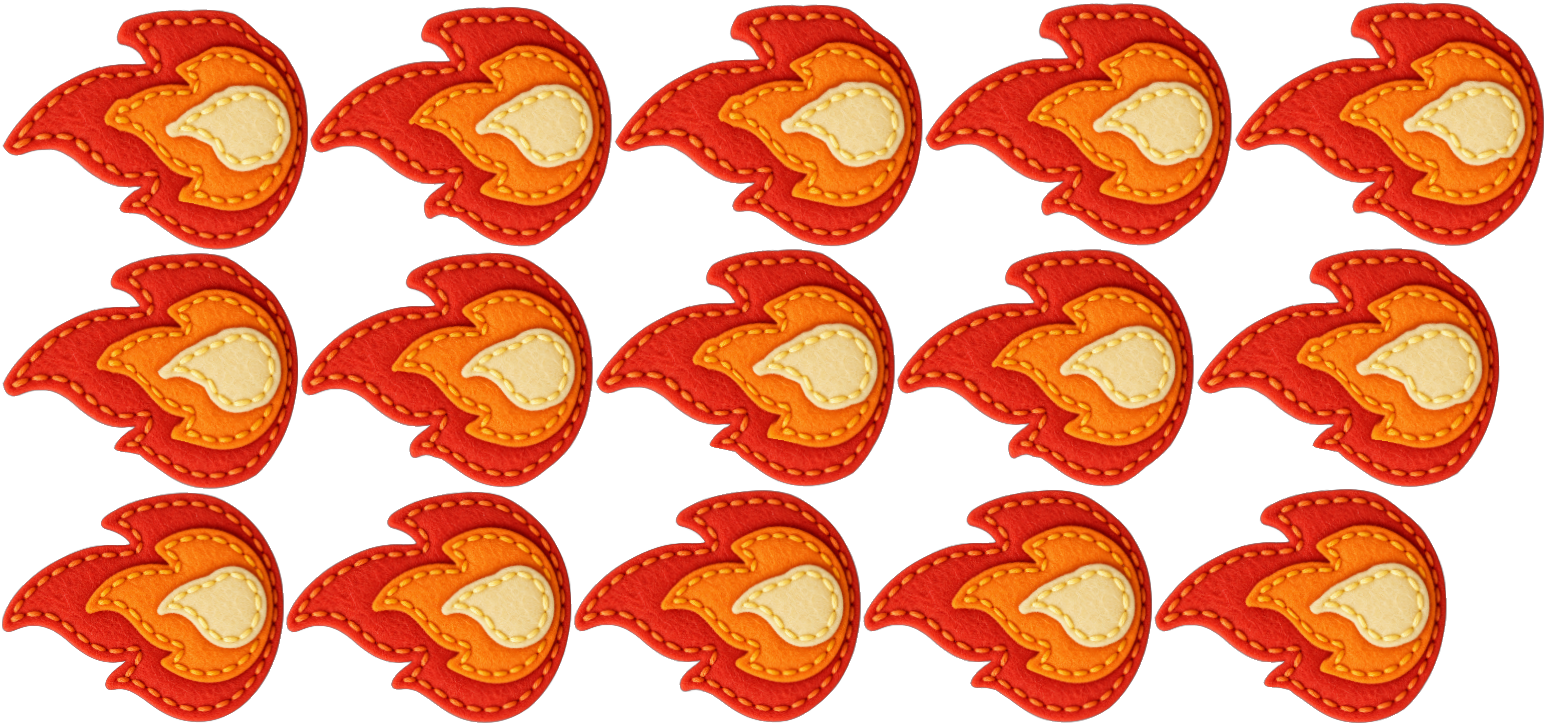
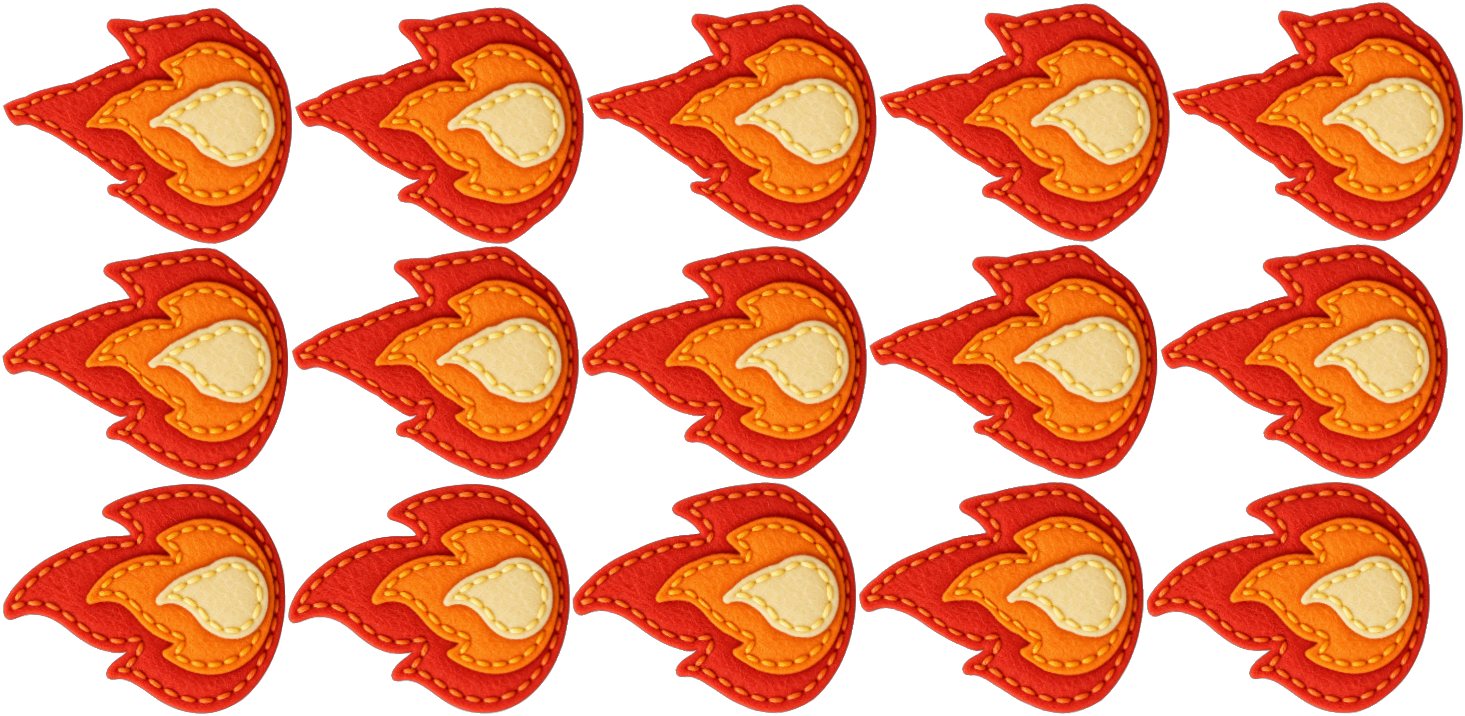
Update ShadedShop/FeltFlame assets, add sign wind animation
Integrates the refreshed ShadedShop spine scene (new sky/tree background,
hanging "The Shaded Shop" sign) and the updated FeltFlame sprite sheet.

ShadedShopViewport now occasionally triggers one of the sign's four new
wind-gust animations (DarkRibbon/Ribbon/Sign Left/Sign Right) at random on
a self-rescheduling timer, mirroring Sable's existing blink-trigger pattern.

FeltFlameAnimation's hand-transcribed frame table is regenerated from the
new FeltFlame.atlas (untrimmed canvas shrank from 246x312 to 244x293, and
every frame's packed bounds/offsets shifted), since the sprite sheet swap
otherwise left frames misaligned.

diff --git a/src/ui/components/ShadedShopViewport.tsx b/src/ui/components/ShadedShopViewport.tsx
@@ -25,9 +25,6 @@ interface ShadedShopViewportProps {
 
 type CameraFraming = { x: number; y: number; zoomFactor: number };
 
-// How far down from the top of the FULL render a shopping-mode character
-// should sit -- tuned so they land within the visible band above a bottom
-// panel that covers ~65-70% of the screen (see ShopScreen's panel height).
 // ShopScreen's merchandise panel covers the bottom ~68% of the screen, so
 // only the top ~32% of this viewport's full-height render is ever actually
 // visible. Center the character+counter within THAT visible band (not the
@@ -40,6 +37,18 @@ const SHOPPING_FRAME_FRACTION = VISIBLE_BAND_FRACTION / 2;
 const SHOPPING_ZOOM_FACTOR = 2.0;
 // Seconds -- exponential smoothing time-constant for camera reframes.
 const CAMERA_EASE_TAU = 0.22;
+
+// One-shot "wind gust hit the sign" animations added to the ShadedShop
+// skeleton -- each moves a different part (ribbons, left/right sign board),
+// so they're independent and safe to occasionally overlap, but read best
+// triggered one at a time rather than all together. `Sign/Branch` (also
+// present in the file) is left out of the rotation since it reads as the
+// branch itself moving rather than a gust hitting the sign -- easy to add
+// back to this list if that's wanted too.
+const SIGN_WIND_ANIMATIONS = ['Sign/DarkRibbon', 'Sign/Ribbon', 'Sign/Sign Left', 'Sign/Sign Right'];
+const SIGN_WIND_TRACK = 0; // the main ShadedShop skeleton's `state` has no other animation on any track
+const SIGN_WIND_MIN_DELAY_MS = 2800; // 5x more frequent than the original 14-32s range
+const SIGN_WIND_MAX_DELAY_MS = 6400;
 
 // Given a character's resolved world anchor (same point used for tap
 // detection) and the viewport's pixel height, computes the camera framing
@@ -151,6 +160,7 @@ export default function ShadedShopViewport({
   const cameraPresetsRef = useRef<Partial<Record<ShopCameraTarget, CameraFraming>>>({});
   const cameraCurrentRef = useRef<CameraFraming | null>(null);
   const cameraDesiredKeyRef = useRef<ShopCameraTarget>(cameraTarget);
+  const signWindTimeoutRef = useRef<ReturnType<typeof setTimeout> | null>(null);
 
   useEffect(() => {
     cameraDesiredKeyRef.current = cameraTarget;
@@ -248,7 +258,6 @@ export default function ShadedShopViewport({
       // matches the hardcoded position/zoom set just above.
       cameraPresetsRef.current.overview = { x: 0, y: 1000, zoomFactor };
       cameraCurrentRef.current = { x: 0, y: 1000, zoomFactor };
-      console.log('[camera] overview preset', { w, h, zoomFactor });
 
       // Load ShadedShop spine scene
       const { skeleton, state, resolveTexture } = await loadShadedShopSpine();
@@ -265,6 +274,25 @@ export default function ShadedShopViewport({
       // Create the skeleton mesh using the existing SkeletonMesh
       const skeletonMesh = new SkeletonMesh(skeleton, state, resolveTexture);
       skeletonMesh.frustumCulled = false;
+
+      // Occasionally play a single one-shot "wind gust" animation on the
+      // hanging sign, picked at random from SIGN_WIND_ANIMATIONS -- mirrors
+      // Sable's self-rescheduling blink timer below, just on a much longer/
+      // more occasional cadence and on the main scene skeleton's own track
+      // (which nothing else animates).
+      const availableSignWindAnimations = SIGN_WIND_ANIMATIONS.filter((name) => skeleton.data.findAnimation(name));
+      if (availableSignWindAnimations.length === 0) {
+        console.warn('None of the configured Sign wind animations were found in the ShadedShop skeleton');
+      } else {
+        const triggerSignWind = () => {
+          const name = availableSignWindAnimations[Math.floor(Math.random() * availableSignWindAnimations.length)];
+          state.setAnimation(SIGN_WIND_TRACK, name, false); // one-shot, no loop
+          const nextDelay = SIGN_WIND_MIN_DELAY_MS + Math.random() * (SIGN_WIND_MAX_DELAY_MS - SIGN_WIND_MIN_DELAY_MS);
+          signWindTimeoutRef.current = setTimeout(triggerSignWind, nextDelay);
+        };
+        const initialDelay = 800 + Math.random() * 1200;
+        signWindTimeoutRef.current = setTimeout(triggerSignWind, initialDelay);
+      }
 
       // Load Sable character
       const sableResult = await loadSableCharacter();
@@ -669,6 +697,10 @@ export default function ShadedShopViewport({
       if (rafRef.current != null) {
         cancelAnimationFrame(rafRef.current);
         rafRef.current = null;
+      }
+      if (signWindTimeoutRef.current != null) {
+        clearTimeout(signWindTimeoutRef.current);
+        signWindTimeoutRef.current = null;
       }
       rendererRef.current?.dispose();
     };

diff --git a/src/ui/components/handcrafted/FeltFlameAnimation.tsx b/src/ui/components/handcrafted/FeltFlameAnimation.tsx
@@ -15,12 +15,12 @@ import { useTheme } from "../../../data/hooks/useTheme";
 const PAGE_SOURCE = require("../../../assets/UI Assets/FeltFlame/FeltFlameExpandAndContract/FeltFlame.png");
 
 // The atlas's untrimmed canvas size, constant across every frame (see
-// FeltFlame.atlas's "offsets: ...,246,312" on every region). Each frame is
+// FeltFlame.atlas's "offsets: ...,244,293" on every region). Each frame is
 // tightly trimmed to a different bounding box, so frames are repositioned at
 // their recorded offset within this fixed canvas -- otherwise the flame
 // would jump around instead of visibly expanding/contracting from one place.
-const CANVAS_W = 246;
-const CANVAS_H = 312;
+const CANVAS_W = 244;
+const CANVAS_H = 293;
 
 type FrameDef = {
   /** Physical top-left of this region on the page. */
@@ -41,21 +41,21 @@ type FrameDef = {
 // One full expand-then-contract loop, frames 00 -> 14, hand-transcribed from
 // FeltFlame.atlas.
 const FRAMES: FrameDef[] = [
-  { x: 2, y: 492, w: 231, h: 282, ox: 7, oy: 6, rotated: true }, // _00
-  { x: 286, y: 491, w: 232, h: 286, ox: 7, oy: 5, rotated: true }, // _01
-  { x: 863, y: 489, w: 234, h: 289, ox: 6, oy: 5, rotated: true }, // _02
-  { x: 1154, y: 489, w: 234, h: 293, ox: 6, oy: 4, rotated: true }, // _03
-  { x: 2, y: 253, w: 236, h: 297, ox: 5, oy: 3, rotated: true }, // _04
-  { x: 595, y: 249, w: 238, h: 300, ox: 4, oy: 3, rotated: true }, // _05
-  { x: 1196, y: 248, w: 239, h: 304, ox: 4, oy: 2, rotated: true }, // _06
-  { x: 2, y: 9, w: 241, h: 306, ox: 3, oy: 2, rotated: true }, // _07
-  { x: 614, y: 4, w: 243, h: 309, ox: 2, oy: 1, rotated: true }, // _08 (fullest bloom)
-  { x: 1234, y: 2, w: 244, h: 310, ox: 2, oy: 1, rotated: true }, // _09
-  { x: 925, y: 3, w: 243, h: 307, ox: 2, oy: 1, rotated: true }, // _10
-  { x: 310, y: 6, w: 241, h: 302, ox: 3, oy: 2, rotated: true }, // _11
-  { x: 897, y: 249, w: 238, h: 297, ox: 4, oy: 3, rotated: true }, // _12
-  { x: 301, y: 252, w: 236, h: 292, ox: 5, oy: 4, rotated: true }, // _13
-  { x: 574, y: 490, w: 233, h: 287, ox: 6, oy: 5, rotated: true }, // _14
+  { x: 288, y: 483, w: 231, h: 282, ox: 7, oy: 6, rotated: true }, // _00
+  { x: 2, y: 484, w: 230, h: 284, ox: 7, oy: 5, rotated: true }, // _01
+  { x: 572, y: 482, w: 232, h: 284, ox: 6, oy: 5, rotated: true }, // _02
+  { x: 858, y: 482, w: 232, h: 286, ox: 6, oy: 4, rotated: true }, // _03
+  { x: 2, y: 247, w: 234, h: 287, ox: 5, oy: 3, rotated: true }, // _04
+  { x: 291, y: 246, w: 234, h: 288, ox: 5, oy: 3, rotated: true }, // _05
+  { x: 869, y: 244, w: 236, h: 289, ox: 4, oy: 2, rotated: true }, // _06
+  { x: 2, y: 7, w: 237, h: 290, ox: 4, oy: 2, rotated: true }, // _07
+  { x: 586, y: 4, w: 238, h: 291, ox: 3, oy: 1, rotated: true }, // _08 (fullest bloom)
+  { x: 1172, y: 2, w: 240, h: 291, ox: 2, oy: 1, rotated: true }, // _09
+  { x: 879, y: 3, w: 239, h: 291, ox: 3, oy: 1, rotated: true }, // _10
+  { x: 294, y: 7, w: 237, h: 290, ox: 4, oy: 2, rotated: true }, // _11
+  { x: 1160, y: 244, w: 236, h: 288, ox: 4, oy: 3, rotated: true }, // _12
+  { x: 581, y: 246, w: 234, h: 286, ox: 5, oy: 4, rotated: true }, // _13
+  { x: 1146, y: 482, w: 232, h: 284, ox: 6, oy: 5, rotated: true }, // _14
 ];
 
 // Fullest-bloom frame, used as the static pose when motion is reduced.
